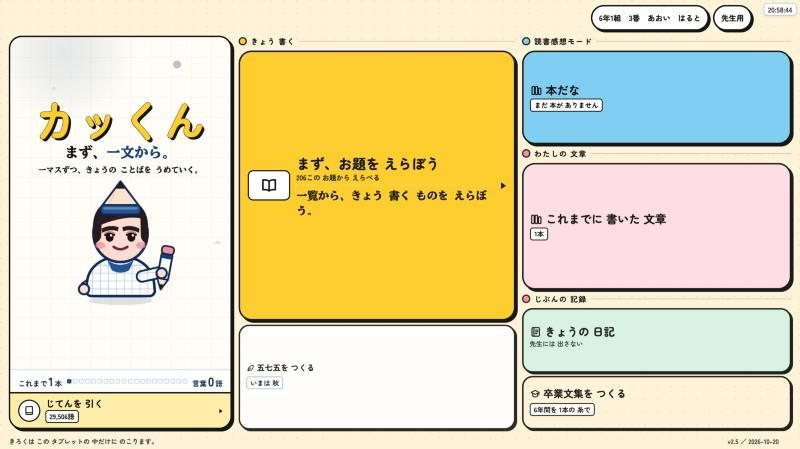
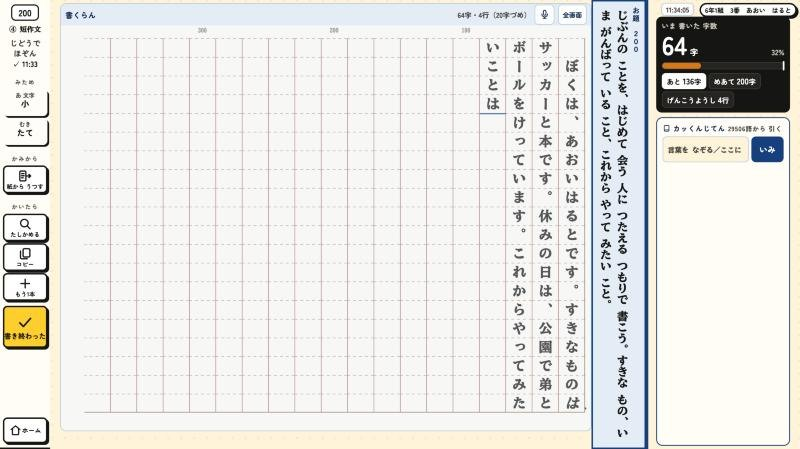
作品棚：わざ4本を働き方の目線に、依頼HPを外す、ミクラベ・カッくんの写真を本物の画面に

diff --git a/tana/index.html b/tana/index.html
@@ -441,27 +441,24 @@ const WORKS=[
    one:'全国の特別活動の先生がつながる「ひろば」の情報を集めたページ。',
    num:['ひろばの仲間','1,000人'],demo:'link',href:'https://tokkatsuhiroba.github.io/',
    detail:{"effTitle": "使ってみての効果", "lead": "LINEで流れてしまう実践を、ためて探せる場所に。", "aim": "全国の特活の先生のLINE（話す場）に、実践をためて探せる場を足す。", "where": "全国の特別活動の先生（LINEの仲間）へ｜2026/8/24公開・管理は1人", "week": {"total": "ひろばの回り方", "note": "オレンジ＝サイトから送る", "blocks": [["話す", "LINEで話す", "", "LINE"], ["送る", "板書・実践を送る", "b-or", "送る"], ["ためる", "実践集にたまる", "b-gr", "ためる"], ["探す", "検索・研究会・グッズ", "", "探す"]]}, "steps": ["LINEで話す", "サイトに送る", "ためて探す"], "tiles": [{"k": "LINEの仲間", "b": "1,000", "u": "人", "note": "9/2に到達・退会0"}, {"k": "サイトに届いた実践", "b": "10", "u": "件", "note": "9/30時点・4都道府県から"}], "statNote": "仲間の数＝LINEの記録（8/24のサイト公開時は505人）。実践の数＝9/30にサイトの表示から数えた。", "seenTitle": "使われ方", "seen": "研究会15会の日程・グッズ・ニュースはそろった。届いた実践は仲間の約1％で、送る人を増やすのが次。", "todo": "サイトを見た人の数と、LINEの仲間の増え方に効いたか。週1の「お題」で届く数が変わるか。", "flow": [{"s": "LINE＝話す場、サイト＝ためる場", "e": "流れて消えていた実践が、あとから探せる。LINEの話はそのまま続く", "key": "いちばんの芯"}, {"s": "ログインなし・写真1枚で送れる", "e": "見せたくない所はその場で黒く塗れる。9/30までに実践10件が届いた"}, {"s": "研究会・グッズ・ニュースを1つの帯に", "e": "研究会15会の日程や資料が、同じ見た目のまま見つかる"}], "supTitle": "だれでも入れるしかけ", "support": [{"s": "日本語・英語・アラビア語", "e": "外国につながる先生や保護者にも、特活を説明できる"}, {"s": "頼まれたら、その日に直す", "e": "更新の記録では、依頼を受けた日に反映している"}], "caveat": "仲間が増えたのはLINEの力が大きく、サイトだけの効果とは言えない。管理は1人で、続け方が課題。"}},
-  {id:'otherhp',s:'web',name:'たのまれて作ったHP',tag:['HP'],img:'img/otherhp.jpg',
-   one:'音楽家の友人のポートフォリオや、研究会のページも作った。',num:['作ったページ','2つ'],later:'リンク（相手の了解をとってから）',
-   detail:{"effTitle": "わかったこと", "lead": "たのまれた相手が、自分で持ち続けられるHPを作る。", "aim": "相手が「いちばん届けたいこと」を聞き、本人が育てられる形で渡す。", "where": "研究会の先生方（全国・スマホで見る）／音楽家の友人（仕事の受け口）｜2026年8〜10月", "week": {"total": "1つのHPができるまで", "note": "オレンジ＝動く見本を作る", "blocks": [["聞く", "聞き取り", "", "聞く"], ["試作", "動く見本を作る", "b-or", "試作"], ["確認", "質問表で本人に確かめる", "", "確認"], ["公開", "公開する", "b-gr", "公開"], ["渡す", "手順書と更新の道具", "b-gy", "渡す"]]}, "steps": ["聞いて試作", "本人に確かめる", "公開して渡す"], "tiles": [{"k": "速さの点（スマホ・研究会のHP）", "a": 82, "b": 100, "u": "点"}, {"k": "最初の画面が出るまで", "a": 3600, "b": 858, "u": "ミリ秒", "down": true}], "statNote": "研究会のHPを機械（Lighthouse・スマホ）で測定。直す前→10回目。採点は作り手側で、外の人の目はまだ。", "seenTitle": "作ってみて", "seen": "友人のHPは2回の聞き取りで9/5に公開。研究会のHPは10/1に公開。どちらも本人の確認を通してから出した。", "todo": "HPから届いた相談・入会の数。友人のHPのスマホ版と申しこみの受け口は、まだ公開していない。", "flow": [{"s": "試作に質問表をつけて本人に確かめる", "e": "事実は空欄のまま、選ぶものだけ仮で埋める。まちがった一文が載らない", "key": "いちばん効いた"}, {"s": "見る人の端末に合わせて作る", "e": "研究会は学校の端末向けに、Googleの上にも載せられる作り。友人はスマホで申しこみが先"}, {"s": "相手が自分で更新できる形で渡す", "e": "手順書と更新の道具をつけて引き継ぐ。作り手がいなくても回る"}], "supTitle": "相手を守るしかけ", "support": [{"s": "連絡先は出さず、申しこみ欄で受ける", "e": "相手のメールは画面に出さない。届け先として裏で使う"}, {"s": "子どもの名前・写真を外して配る", "e": "資料のPDFは、名前を消し写真をはずした版にする"}], "caveat": "相手の名前・URLは、了解をとってから載せる。見た人の声は、まだ集めていない。"}},
 
   {id:'gyakusan',s:'waza',name:'単元を、ゴールから逆算して組む',tag:['国語','算数'],img:'img/gyakusan.jpg',
    before:'単元名と、単元の終わりに子どもに書いてほしい振り返り',
    after:'第1時から最後までの計画・発問・指名の順',
    one:'先に「子どもが最後に書く振り返り」を決めて、そこから毎時間をさかのぼって作る。',later:'できあがりの見本',
-   detail:{"effTitle": "わかったこと", "lead": "子どもが最後に書く一文から、毎時間をさかのぼる。", "aim": "単元末の振り返りを先に子どもの言葉で決め、そこから毎時間の課題と第1時の進行を組む。", "where": "6年 国語・算数・社会｜「やまなし」「データの調べ方」など（2026年8〜10月）", "week": {"total": "逆算の5段", "note": "オレンジ＝起点（終わりの振り返り）", "blocks": [["1", "振り返りをA・B・Cで", "b-or", "終わり"], ["2", "差を生む経験", "", "経験"], ["3", "毎時の課題", "", "課題"], ["4", "振り返りの視点", "", "視点"], ["5", "第1時の進行", "b-gr", "第1時"]]}, "steps": ["終わりの一文", "必要な経験", "第1時の進行"], "tiles": [{"k": "前の単元の子どもの振り返り", "b": "19", "u": "件", "note": "数えて、次の単元の計画に生かした"}, {"k": "「やまなし」の作り直し", "b": "4", "u": "版", "note": "8/11の初版→v4.0"}], "statNote": "振り返り19件＝算数「拡大図と縮図」のあと。版の数は計画ファイルから。単元末の振り返りの変化はまだ数えていない。", "seenTitle": "使ってみて", "seen": "前の単元の振り返りで最も多かったのは「発表の時間が短い」（5件）。次の単元で、その時間を2時間に分けた。", "todo": "単元末の振り返りがA・B・Cの姿に近づいたか（第1時と第8時の紙を比べる）。作るのにかかった時間。", "flow": [{"s": "終わりの振り返りを子どもの言葉で3段階", "e": "BとAの差が1文で決まり、その差を生む経験が単元の骨になる", "key": "いちばんの芯"}, {"s": "第1時に「問いの束」を先に用意", "e": "子どもの声があふれがちな第1時を、45分で計画づくりまで収める"}, {"s": "確かめられない所は空欄で渡す", "e": "指導事項や本文をうろ覚えで埋めない。「確認が必要な箇所」を必ず書く"}], "supTitle": "崩れない計画にするしかけ", "support": [{"s": "予備の1時間を必ず残す", "e": "授業がずれても、計画の中で吸収できる"}, {"s": "振り返りの問いは2〜3種類", "e": "同じ問いを回すので、子どもが書けるようになる"}], "caveat": "学習効果はまだ測っていない。数は作った量で、子どもの伸びではない。"}},
+   detail:{"useTitle": "仕事のどこで使うか", "whyTitle": "このしくみがあるから、仕事が軽くなる", "effTitle": "働き方の効果", "lead": "単元の終わりから組むので、毎時間の迷いが減る。", "aim": "子どもが最後に書く振り返りを先に決め、毎時間の課題と第1時の進行まで一度に組む。", "where": "単元を組むとき｜6年 国語・算数・社会（2026年8〜10月）", "week": {"total": "逆算の5段", "note": "オレンジ＝起点（終わりの振り返り）", "blocks": [["1", "振り返りをA・B・Cで", "b-or", "終わり"], ["2", "差を生む経験", "", "経験"], ["3", "毎時の課題", "", "課題"], ["4", "振り返りの視点", "", "視点"], ["5", "第1時の進行", "b-gr", "第1時"]]}, "steps": ["終わりの一文", "必要な経験", "第1時の進行"], "tiles": [{"k": "前の単元の振り返り", "b": "19", "u": "件", "note": "数えて、次の単元の組み方に生かした"}, {"k": "計画に入れておく予備", "b": "1", "u": "時間", "note": "ずれても作り直さない"}], "statNote": "振り返り19件＝算数「拡大図と縮図」のあと。いちばん多い声「発表の時間が短い」（5件）を受け、次の単元でその時間を2時間に分けた。", "seenTitle": "使ってみて", "seen": "子どもの振り返りを数えてから組むので、「次は何を変えるか」を考えこまずに決められる。", "todo": "1単元の計画を作る時間が、前とくらべてどれだけ減ったか。", "flow": [{"s": "終わりの振り返りを、先に子どもの言葉で", "e": "ゴールが1文で決まるので、毎時間の課題を迷わず決められる", "key": "いちばんの芯"}, {"s": "第1時の進行まで一緒に出る", "e": "いちばん崩れやすい第1時の準備を、別に考えなくていい"}, {"s": "確かめられない所は空欄で渡す", "e": "うろ覚えで埋めないので、あとで直して回る手間がない"}], "supTitle": "作り直しを減らすしかけ", "support": [{"s": "予備の1時間を必ず残す", "e": "授業がずれても、計画を作り直さない"}, {"s": "振り返りの問いは2〜3種類", "e": "毎時間、新しい問いを考えなくていい"}], "caveat": "かかった時間はまだ測っていない。数は作った量の記録。"}},
   {id:'saian',s:'waza',name:'授業中に見る細案',tag:['B4よこ','1時間1枚'],img:'img/saian.jpg',
    before:'単元の計画',after:'1時間1枚の細案と、手書きの評価シート（PDF）',
    one:'授業中に机の上で見られる形にする。字の読みやすさも機械で確かめる。',later:'できあがりの見本',
-   detail:{"effTitle": "わかったこと", "lead": "授業中に、机の上で横目で見られる1時間1枚。", "aim": "単元計画を、授業中に見る紙（B4よこ・1時間1枚）と手書きの評価シートに降ろす。", "where": "6年 国語「やまなし」・6年 社会「江戸幕府と政治の安定」ほか｜2026年9〜10月", "week": {"total": "1時間＝1枚", "note": "オレンジ＝展開（中心発問は1つ）", "blocks": [["目", "目標と評価", "", "目標"], ["展", "展開・発問", "b-or", "展開"], ["板", "板書計画", "", "板書"], ["つ", "つまずき", "", "つまずき"], ["見", "見取り B・A・C", "b-gr", "見取り"]]}, "steps": ["単元計画から降ろす", "検査しながら組む", "評価シートも出す"], "tiles": [{"k": "1時間ぶんの細案", "b": "約4", "u": "分", "note": "頼んでから違反0件まで（国語・10/19）"}, {"k": "「やまなし」の細案", "b": "10", "u": "枚", "note": "B4よこ・一覧1＋9時間"}], "statNote": "時間は会話の記録の時刻の差（中身を考える前のやりとりは入らない）。違反の数は検査の記録から。", "seenTitle": "使ってみて", "seen": "算数「円の面積」第2時は公式まで届かなかった。「何を書けばいいか分からない」姿から、細案を作り直した。", "todo": "授業中に迷わず進められたか。評価シートに○をつけて使った記録は、まだ無い。", "flow": [{"s": "◎中心発問は1時間に1つ", "e": "反応を3つ以上（ずれ1つ）書き、それぞれの問い返しまで用意できる", "key": "いちばんの芯"}, {"s": "入らないなら中身を減らす", "e": "字は小さくしない。字の大きさ・はみ出しを機械で測り、0件で刷る"}, {"s": "評価シートに基準を印刷", "e": "Bの姿・Aの姿を見ながら○をつける。空欄は「Cではない」と紙に書く"}], "supTitle": "授業中に迷わないしかけ", "support": [{"s": "板書は色・しるし・線で分ける", "e": "色だけにたよらず、まとまりが見分けられる"}, {"s": "直すのは元の文だけ", "e": "PDFは作り直すので、紙と元の文が食いちがわない"}], "caveat": "スキルのきまり（記録は単元で3〜4回）と、やまなしの実際（全9時間で記録）はちがう。", "range": {"lo": 0, "hi": 20, "step": 5, "u": "件", "down": true, "label": "字の大きさ・はみ出しの違反（少ないほどよい）", "aL": "最初", "bL": "直した後", "rows": [{"k": "算数の細案（9/5）", "a": 17, "b": 0}, {"k": "社会の細案（9/6）", "a": 7, "b": 0}]}}},
+   detail:{"useTitle": "仕事のどこで使うか", "whyTitle": "このしくみがあるから、仕事が軽くなる", "effTitle": "働き方の効果", "lead": "1時間ぶんの細案が、約4分で刷れる形になる。", "aim": "単元計画を、授業中に見る紙（B4よこ・1時間1枚）と評価シートに一度に降ろす。", "where": "授業の準備｜6年 国語「やまなし」・社会「江戸」ほか（2026年9〜10月）", "week": {"total": "1時間＝1枚", "note": "オレンジ＝展開（中心発問は1つ）", "blocks": [["目", "目標と評価", "", "目標"], ["展", "展開・発問", "b-or", "展開"], ["板", "板書計画", "", "板書"], ["つ", "つまずき", "", "つまずき"], ["見", "見取り B・A・C", "b-gr", "見取り"]]}, "steps": ["単元計画から降ろす", "検査しながら組む", "評価シートも出す"], "range": {"lo": 0, "hi": 20, "step": 5, "u": "件", "down": true, "label": "刷る前に機械が見つけた違反（少ないほどよい）", "aL": "最初", "bL": "直した後", "rows": [{"k": "算数の細案", "a": 17, "b": 0}, {"k": "社会の細案", "a": 7, "b": 0}]}, "tiles": [{"k": "1時間ぶんの細案", "b": "約4", "u": "分", "note": "頼んでから違反0件まで"}, {"k": "社会の細案を直す", "b": "約10", "u": "分", "note": "7件の違反を0件に"}], "statNote": "時間は会話の記録の時刻の差（中身を考える前のやりとりは入らない）。算数9/5・社会9/6・国語10/19。", "seenTitle": "使ってみて", "seen": "第1時は約1分40秒、第4時は約4分。字の大きさを機械が見るので、刷ってから気づく失敗がない。", "todo": "授業前の準備時間が、前とくらべてどれだけ減ったか。", "flow": [{"s": "単元計画から1時間1枚に降ろす", "e": "毎時間の細案を一から書かない。1時間ぶん約4分", "key": "いちばん効いた"}, {"s": "字の大きさ・はみ出しを機械が検査", "e": "刷ってから気づいて刷り直す、がなくなる"}, {"s": "評価シートも同時に出る", "e": "評価の表を別に作らない。基準も印刷されている"}], "supTitle": "授業中に迷わないしかけ", "support": [{"s": "◎中心発問は1時間に1つ", "e": "授業中に紙を見て迷う時間が減る"}, {"s": "直すのは元の文だけ", "e": "紙と元の文が食いちがわず、二重に直さない"}], "caveat": "時間は道具が作るまでの時間。先生が中身を考える時間は入っていない。"}},
   {id:'ud',s:'waza',name:'だれでも読みやすいプリント',tag:['UD'],img:'img/ud.jpg',
    before:'いつものワークシート',after:'字の大きさ・太さ・行間・色の濃さを検査して直した版',
    one:'「読みにくい」を感覚ではなく数字で直す。基準に1つでも外れたら、刷る前に止まる。',later:'前と後の見本',
-   detail:{"effTitle": "わかったこと", "lead": "「読みにくい」を、数字で見つけて直す。", "aim": "いつものプリントの字・行間・濃さを機械で測り、読めない子が出ない紙にする。", "where": "子どもに配る紙・貼る紙・映す紙と、先生の細案｜6年算数「データの調べ方」から（2026/9/5〜）", "week": {"total": "1枚ができるまで", "note": "オレンジ＝違反があれば止まる", "blocks": [["聞く", "だれが読む紙か", "", "確認"], ["描く", "決まった部品で描く", "", "描く"], ["検査", "違反があれば止まる", "b-or", "検査"], ["見る", "目で見て確かめる", "b-gy", "目視"]]}, "steps": ["だれが読むか決める", "描くたびに検査", "0件で印刷"], "range": {"lo": 0, "hi": 10, "step": 2, "u": "mm", "label": "書く欄・囲む○の大きさ（大きいほどよい）", "aL": "直す前", "bL": "直した後", "rows": [{"k": "書く欄の行の高さ", "a": 6, "b": 8}, {"k": "囲む○の高さ", "a": 5.4, "b": 7}]}, "tiles": [{"k": "検査で落ちて直した所", "b": "16", "u": "か所", "note": "うすい灰色6・行間2・長い行8"}, {"k": "細案のつづきの紙（第1時）", "a": 4, "b": 1, "u": "枚", "down": true}], "statNote": "2026/9/5、6年算数「データの調べ方」の紙を直したときの記録。「後」は基準値（これ以上）で、最小の実測値ではない。", "seenTitle": "使ってみて", "seen": "「字が太い」の原因は大きさではなく書体だった。検査を通っても、目で見て初めて分かる失敗が2つあった。", "todo": "子どもが読みやすく・書きやすくなったか（手が止まる所）。前と後の紙をならべた見本は、前の紙が残っていないので作り直す。", "flow": [{"s": "違反が1件でもあれば止まる", "e": "「気をつける」ではなく、出す前に必ず直る。16か所を直してから刷った", "key": "いちばん効いた"}, {"s": "だれが読む紙かで、下限を変える", "e": "子どもの紙は10.5pt以上。先生の紙は9ptで欄を広げ、変な改行を減らす"}, {"s": "細い書体を紙に埋めこむ", "e": "太すぎた字が細くなり、どの端末から刷っても同じ形で出る"}], "supTitle": "だれも取り残さないしかけ", "support": [{"s": "色だけで伝えない", "e": "色に、太さ・形・文字のしるしを必ず添える"}, {"s": "書く欄は8mm、○は7mm以上", "e": "子どもの大きな字でも入り、囲みやすい"}], "caveat": "数字は紙の作りの数字で、子どもの学びの伸びではない。"}},
+   detail:{"useTitle": "仕事のどこで使うか", "whyTitle": "このしくみがあるから、仕事が軽くなる", "effTitle": "働き方の効果", "lead": "読みにくい所を機械が見つけるので、直す手間が短い。", "aim": "プリントの字・行間・濃さを機械で測り、刷る前に直す。読めない子が出ない紙を、手間をかけずに作る。", "where": "配る紙・貼る紙・映す紙と細案を作るとき｜6年算数「データの調べ方」から（2026/9/5〜）", "week": {"total": "1枚ができるまで", "note": "オレンジ＝違反があれば止まる", "blocks": [["聞く", "だれが読む紙か", "", "確認"], ["描く", "決まった部品で描く", "", "描く"], ["検査", "違反があれば止まる", "b-or", "検査"], ["見る", "目で見て確かめる", "b-gy", "目視"]]}, "steps": ["だれが読むか決める", "描くたびに検査", "0件で印刷"], "tiles": [{"k": "機械が見つけて直した所", "b": "16", "u": "か所", "note": "うすい灰色6・行間2・長い行8"}, {"k": "細案のつづきの紙（第1時）", "a": 4, "b": 1, "u": "枚", "down": true}], "statNote": "2026/9/5、6年算数「データの調べ方」の紙を直したときの記録。", "seenTitle": "使ってみて", "seen": "人が目で探していた「読みにくい所」を、機械が先に見つける。ただし目で見て初めて分かる失敗も2つあった。", "todo": "1枚を直すのにかかる時間を、前とくらべる。", "flow": [{"s": "違反が1件でもあれば止まる", "e": "「気をつける」を人がしなくていい。16か所を刷る前に直した", "key": "いちばん効いた"}, {"s": "だれが読む紙かで、基準を変える", "e": "先生の紙は欄を広げて詰め、つづきの紙が4枚→1枚に"}, {"s": "書体を紙に埋めこむ", "e": "どの端末から刷っても同じ形。刷り直しが要らない"}], "supTitle": "だれも取り残さないしかけ", "support": [{"s": "色だけで伝えない", "e": "色に、太さ・形・しるしを必ず添える"}, {"s": "書く欄は8mm、○は7mm以上", "e": "子どもの大きな字でも入り、書き直しが減る"}], "caveat": "かかった時間はまだ測っていない。数字は紙を直した記録。"}},
   {id:'kiyo',s:'waza',name:'録音から紀要へ',tag:['校内研究'],img:'img/kiyo.jpg',
    before:'研究協議会の録音',after:'文字起こし → 学びのまとめ → 紀要（Googleドキュメント）',
    one:'話し合いの録音から、次の授業に生かす記録までを一気に作る。',later:'できあがりの見本',
-   detail:{"effTitle": "わかったこと", "lead": "57分の協議会の録音が、約1時間で紀要になる。", "aim": "研究協議会の話し合いを、次の授業に生かせる記録として残す。", "where": "校内研究の研究授業のあと｜4年 社会の研究授業の協議会（2026/10/21）", "week": {"total": "約1時間（うち文字起こし約38分）", "note": "オレンジ＝Macの中で文字にする", "blocks": [["録音", "協議会を録る", "", "57分"], ["文字", "Macの中で文字に", "b-or", "38分"], ["まとめ", "学びをまとめる", "", "まとめ"], ["紀要", "8章の紀要に", "b-gr", "紀要"], ["共有", "研究の記録へ1件", "b-gy", "共有"]]}, "steps": ["録音を文字に", "学びをまとめる", "紀要と共有へ"], "tiles": [{"k": "文字にした量", "b": "15,714", "u": "字", "note": "57分の録音を約38分で"}, {"k": "紀要の本文", "b": "5,229", "u": "字", "note": "8章・講評は10項目"}], "statNote": "2026/10/21の協議会1回の記録。時間は道具とファイルの時刻から（とちゅうで止まり、翌朝に仕上げた）。", "seenTitle": "使ってみて", "seen": "「授業」の録音だと思ったら、中身は協議会と講師の講評だった。まず全部読む、をきまりにした。", "todo": "紀要を読んだ先生の声と、次の研究授業にどう生きたか。2回目からの時間もこれから測る。", "flow": [{"s": "録音はMacの中だけで文字にする", "e": "子どもの声が入った録音を、外のサービスに出さずに文字にできる", "key": "いちばんの芯"}, {"s": "紀要は8章の型に流しこむ", "e": "主題・手立て・協議・講評・成果と課題がそろい、毎回同じ形で残る"}, {"s": "学びを研究の記録アプリへ1件", "e": "授業ごとの気づきとして、研究だより・年度のまとめに自動で載る"}], "supTitle": "安心して残せるしかけ", "support": [{"s": "子どもの名前は本文に入れない", "e": "全文は手もとに置き、紀要には学びだけを書く"}, {"s": "聞きまちがいを資料で直す", "e": "人名・専門語は、指導案と参観者の気づきで補う"}], "caveat": "記録はまだ1回分。紀要の質や、授業がよくなったかはまだ確かめていない。"}}
+   detail:{"useTitle": "仕事のどこで使うか", "whyTitle": "このしくみがあるから、仕事が軽くなる", "effTitle": "働き方の効果", "lead": "57分の協議会の録音が、約1時間で紀要になる。", "aim": "研究協議会の話し合いを書き起こし、紀要にまとめるまでの手間を短くする。", "where": "校内研究の研究授業のあと｜4年 社会の研究授業の協議会（2026/10/21）", "week": {"total": "約1時間（うち文字起こし約38分）", "note": "オレンジ＝Macの中で文字にする", "blocks": [["録音", "協議会を録る", "", "57分"], ["文字", "Macの中で文字に", "b-or", "38分"], ["まとめ", "学びをまとめる", "", "まとめ"], ["紀要", "8章の紀要に", "b-gr", "紀要"], ["共有", "研究の記録へ1件", "b-gy", "共有"]]}, "steps": ["録音を文字に", "学びをまとめる", "紀要と共有へ"], "tiles": [{"k": "57分の録音を文字に", "b": "約38", "u": "分", "note": "15,714字"}, {"k": "紀要の本文まで", "b": "約1", "u": "時間", "note": "5,229字・8章"}], "statNote": "2026/10/21の協議会1回の記録。時間は道具とファイルの時刻から（とちゅうで止まり、翌朝に仕上げた）。", "seenTitle": "使ってみて", "seen": "書き起こしを手でしなくていい。「まず全部読む」をきまりにして、聞きまちがいを資料で直した。", "todo": "2回目からの時間と、紀要を読んだ先生の声。", "flow": [{"s": "録音はMacの中だけで文字にする", "e": "外のサービスに出さないので、学校の決まりの中で使える", "key": "いちばんの芯"}, {"s": "紀要は8章の型に流しこむ", "e": "毎回、形を考えなくていい。主題・協議・講評・成果がそろう"}, {"s": "学びを研究の記録アプリへ1件", "e": "研究だより・年度のまとめを、別に作らなくていい"}], "supTitle": "安心して残せるしかけ", "support": [{"s": "子どもの名前は本文に入れない", "e": "全文は手もとに置き、紀要には学びだけを書く"}, {"s": "聞きまちがいを資料で直す", "e": "人名・専門語は、指導案と参観者の気づきで補う"}], "caveat": "記録はまだ1回分。前に手で作ったときの時間とは、まだくらべていない。"}}
 ];
 
 const $=id=>document.getElementById(id);
@@ -507,7 +504,7 @@ function openWork(id){
     '<p class="ws-one">'+esc(w.one)+'</p>';
   if(w.before) h+='<div class="ws-ba"><div><small>入れるもの</small>'+esc(w.before)+'</div><i aria-hidden="true">→</i><div><small>できるもの</small>'+esc(w.after)+'</div></div>';
   if(w.num) h+='<div class="ws-num"><small>'+esc(w.num[0])+'</small><strong>'+esc(w.num[1])+'</strong></div>';
-  if(w.detail) h+='<button class="ws-go ws-sec" type="button" data-detail="'+w.id+'">学習効果と しくみを くわしく見る →</button>';
+  if(w.detail) h+='<button class="ws-go ws-sec" type="button" data-detail="'+w.id+'">'+esc(w.detail.effTitle&&w.detail.effTitle!=='わかったこと'?w.detail.effTitle:'学習効果')+'と しくみを くわしく見る →</button>';
   const upa=w.demo?['point_left','触ってみてね！']:w.s==='waza'?['calm','材料を入れると、これができるよ。']:['worried','いま準備中なんだ…もう少し待ってね。'];
   h+='<div class="ws-upa"><img src="img/upa/'+upa[0]+'.png" alt="ウパ丸"><p>'+upa[1]+'</p></div>';
   if(w.demo==='file') h+='<button class="ws-go" type="button" data-play="'+w.href+'">▶ 触ってみる</button>'+
@@ -554,14 +551,14 @@ function openDetail(id){
      '<header class="wd-hero">'+pic(w)+'<h2>'+esc(w.name)+'</h2><p class="wd-lead">'+esc(d.lead)+'</p>'+
      (d.voice?'<blockquote class="wd-voice"><span aria-hidden="true">“</span>'+esc(d.voice.replace(/[「」]/g,''))+'<cite>'+esc(d.voiceBy||'')+'</cite></blockquote>':'')+'</header>'+
      '<section class="wd-sec"><h3><i>1</i>ひとこと</h3><p class="wd-p">'+esc(d.aim)+'</p></section>'+
-     '<section class="wd-sec"><h3><i>2</i>授業のどこで使うか</h3>'+useH+'</section>'+
+     '<section class="wd-sec"><h3><i>2</i>'+esc(d.useTitle||'授業のどこで使うか')+'</h3>'+useH+'</section>'+
    '</div>'+
    '<div class="wd-col wd-c2"><section class="wd-sec"><h3><i>3</i>'+esc(d.effTitle||'学習効果')+'</h3>'+
      rangeH+tiles+waffleH+
      (d.statNote?'<p class="wd-note">'+esc(d.statNote)+'</p>':'')+
      (d.seen?'<div class="wd-seen"><small>'+esc(d.seenTitle||'先生の見取り')+'</small>'+esc(d.seen)+'</div>':'')+
      (d.todo?'<div class="wd-todo"><small>これから確かめること</small>'+esc(d.todo)+'</div>':'')+'</section></div>'+
-   '<div class="wd-col wd-c3"><section class="wd-sec"><h3><i>4</i>このしくみがあるから、この効果が出る</h3>'+
+   '<div class="wd-col wd-c3"><section class="wd-sec"><h3><i>4</i>'+esc(d.whyTitle||'このしくみがあるから、この効果が出る')+'</h3>'+
      '<ol class="wd-flow">'+d.flow.map((x,k)=>'<li class="'+(x.key?'key':'')+'"><span class="wd-node">'+(k+1)+'</span>'+
         '<div class="wd-fs">'+(x.img?'<img src="'+x.img+'" alt="'+esc(x.alt||'')+'" loading="lazy">':'')+'<span>'+esc(x.s)+'</span>'+(x.key?'<em>'+esc(x.key)+'</em>':'')+'</div><div class="wd-fe"><span aria-hidden="true">→</span>'+esc(x.e)+'</div></li>').join('')+'</ol>'+
      (d.support?'<div class="wd-sup"><small>'+esc(d.supTitle||'やる気を支えるしかけ')+'</small><div>'+d.support.map(x=>'<p><b>'+esc(x.s)+'</b>'+esc(x.e)+'</p>').join('')+'</div></div>':'')+
